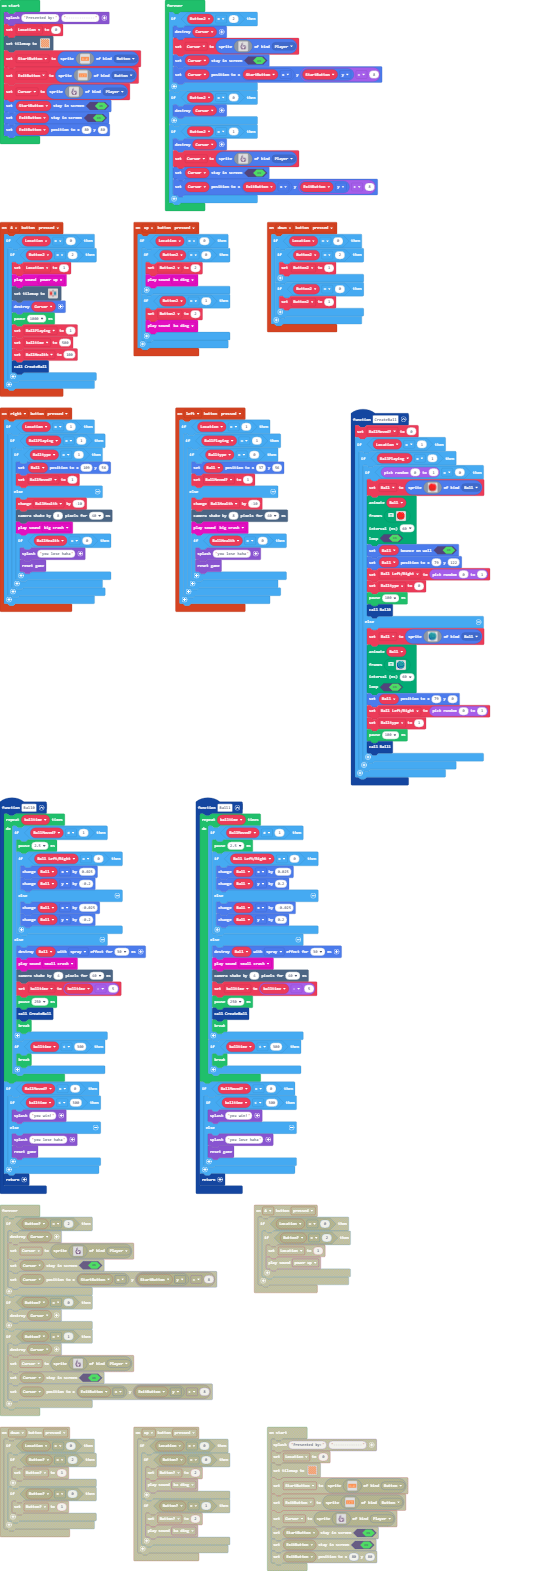
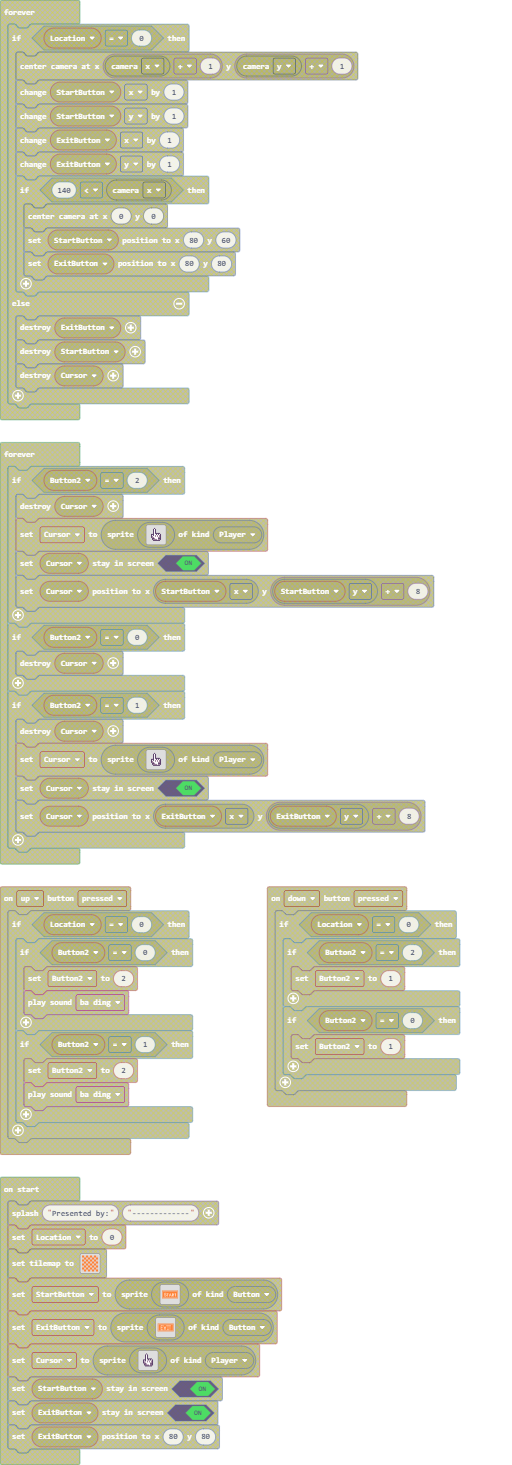
Update main.blocks, main.ts

diff --git a/main.ts b/main.ts
@@ -2,21 +2,19 @@ namespace SpriteKind {
     export const Button = SpriteKind.create()
     export const Ball = SpriteKind.create()
 }
-controller.up.onEvent(ControllerButtonEvent.Pressed, function () {
-    if (Location == 0) {
-        if (Button2 == 0) {
-            Button2 = 2
-            music.baDing.play()
-        }
-        if (Button2 == 1) {
-            Button2 = 2
-            music.baDing.play()
-        }
-    }
-})
+let Location = 0
+let BallPlaying = 0
+let balltime = 0
+let BallHealth = 0
+let Balltype = 0
+let Ball: Sprite = null
+let BallMoved = 0
+let Ball_LeftRight = 0
 controller.A.onEvent(ControllerButtonEvent.Pressed, function () {
     if (Location == 0) {
+        let Button2 = 0
         if (Button2 == 2) {
+            let Cursor: Sprite = null
             Location = 1
             music.powerUp.play()
             tiles.setTilemap(tilemap`level4`)
@@ -133,16 +131,6 @@ function Ball0 () {
     }
     return
 }
-controller.down.onEvent(ControllerButtonEvent.Pressed, function () {
-    if (Location == 0) {
-        if (Button2 == 2) {
-            Button2 = 1
-        }
-        if (Button2 == 0) {
-            Button2 = 1
-        }
-    }
-})
 function CreateBall () {
     BallMoved = 0
     if (Location == 1) {
@@ -178,57 +166,3 @@ function CreateBall () {
         }
     }
 }
-let Ball_LeftRight = 0
-let BallMoved = 0
-let Ball: Sprite = null
-let Balltype = 0
-let BallHealth = 0
-let balltime = 0
-let BallPlaying = 0
-let Button2 = 0
-let Cursor: Sprite = null
-let Location = 0
-game.splash("Presented by:", "-------------")
-Location = 0
-tiles.setTilemap(tilemap`level2`)
-let StartButton = sprites.create(assets.image`Start Button0`, SpriteKind.Button)
-let ExitButton = sprites.create(assets.image`Start Button`, SpriteKind.Button)
-Cursor = sprites.create(assets.image`Cursor`, SpriteKind.Player)
-StartButton.setStayInScreen(true)
-ExitButton.setStayInScreen(true)
-ExitButton.setPosition(80, 80)
-forever(function () {
-    if (Location == 0) {
-        scene.centerCameraAt(scene.cameraProperty(CameraProperty.X) + 1, scene.cameraProperty(CameraProperty.Y) + 1)
-        StartButton.x += 1
-        StartButton.y += 1
-        ExitButton.x += 1
-        ExitButton.y += 1
-        if (140 < scene.cameraProperty(CameraProperty.X)) {
-            scene.centerCameraAt(0, 0)
-            StartButton.setPosition(80, 60)
-            ExitButton.setPosition(80, 80)
-        }
-    } else {
-        ExitButton.destroy()
-        StartButton.destroy()
-        Cursor.destroy()
-    }
-})
-forever(function () {
-    if (Button2 == 2) {
-        Cursor.destroy()
-        Cursor = sprites.create(assets.image`Cursor`, SpriteKind.Player)
-        Cursor.setStayInScreen(true)
-        Cursor.setPosition(StartButton.x, StartButton.y + 8)
-    }
-    if (Button2 == 0) {
-        Cursor.destroy()
-    }
-    if (Button2 == 1) {
-        Cursor.destroy()
-        Cursor = sprites.create(assets.image`Cursor`, SpriteKind.Player)
-        Cursor.setStayInScreen(true)
-        Cursor.setPosition(ExitButton.x, ExitButton.y + 8)
-    }
-})
